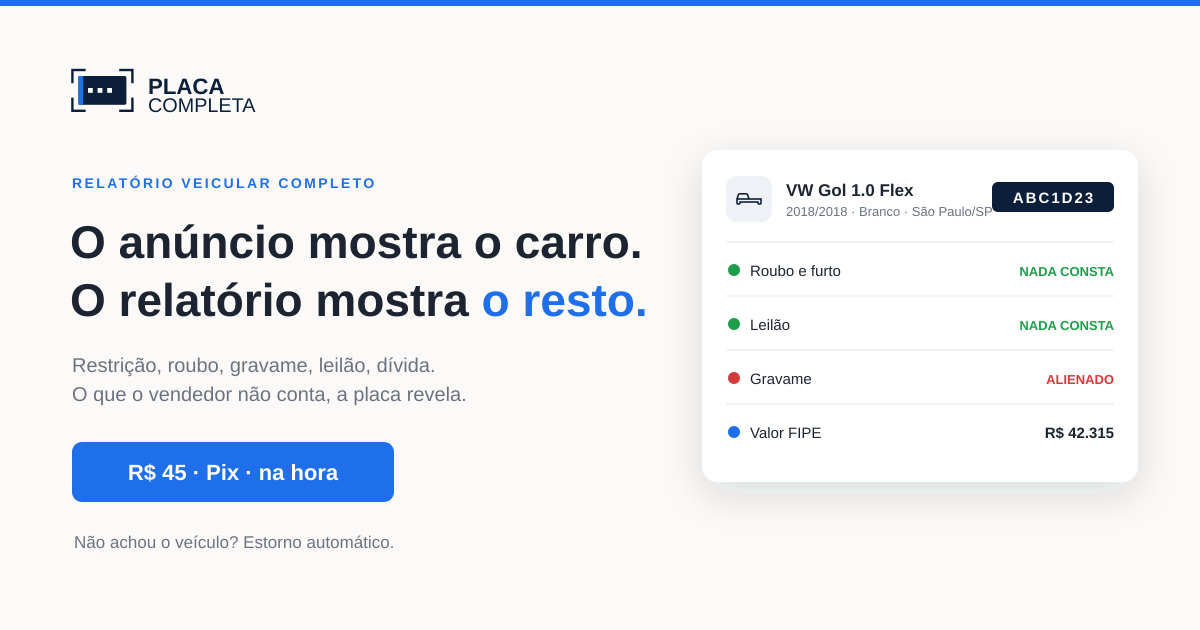
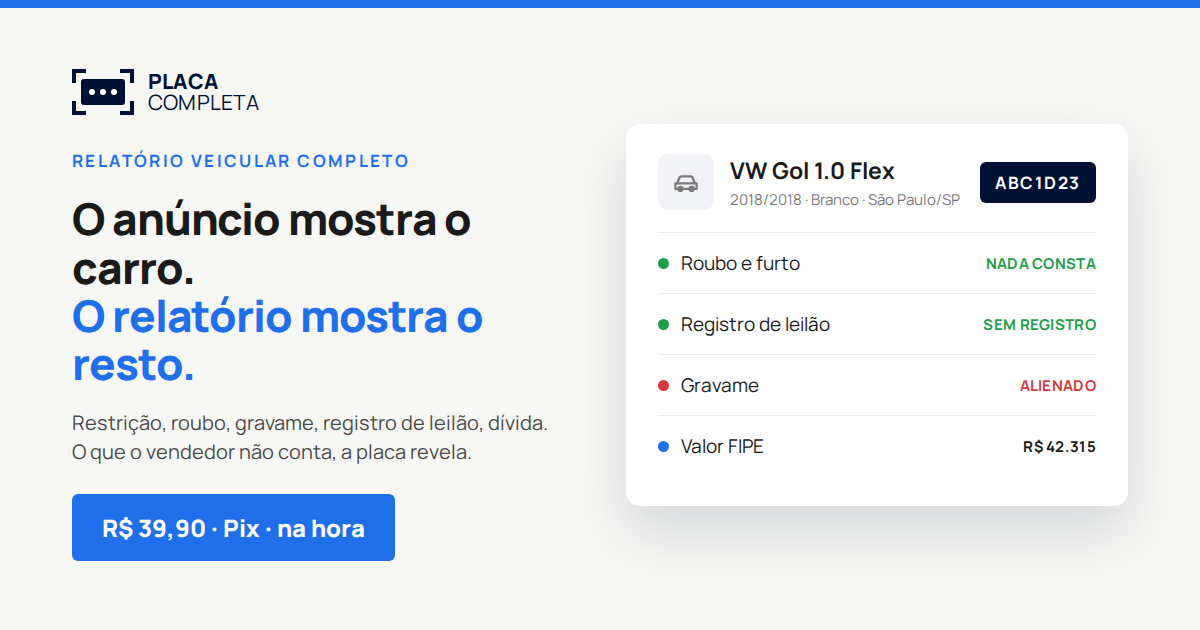
seo: tira o "gratis" do compartilhamento social
No card que circula em grupo de WhatsApp e rede social, quem precisa
aparecer e o relatorio pago; o "gratis" segue no title do Google, onde ele
ganha o clique. So Open Graph e Twitter mudaram: conteudo visivel, title e
meta description ficaram como estavam.

- nuxt.config: og:title, og:description, og:image:alt, twitter:title e
  twitter:description. Os textos antigos ainda prometiam "receba os dados
  no seu e-mail", coisa que a consulta gratis nao faz mais (o resultado sai
  na propria tela), entao a reescrita corrige as duas coisas de uma vez.
- useSiteVariant: as tres ogDescription (carro, moto, caminhao), agora
  cada uma falando do proprio veiculo em vez de repetir o mesmo texto.
- Paginas com OG proprio: consulta-gratis, consulta-placa,
  como-consultar-placa, tabela-fipe-por-placa, tabela-fipe,
  consultar-placa/[estado] e consultar-placa/capital/[slug].

As duas imagens tambem eram copy e estavam desatualizadas:
- og-image.png (default do site) tinha "Consulta Veicular Gratis" escrito.
- og-home.png trazia "R$ 45" (preco de duas mudancas atras), "Leilao" sem
  o "registro" e a linha "Nao achou o veiculo? Estorno automatico", que o
  Cesar ja mandou tirar do produto.
As duas foram refeitas na linguagem visual do site. Pra nao repetir o
trabalho manual na proxima mudanca de preco ou de vocabulario, os
templates viraram HTML versionado em scripts/og/ com um gerador
(node scripts/og/gerar.mjs) que exporta os PNGs em 1200x630.
[…]

diff --git a/scripts/og/og-home.html b/scripts/og/og-home.html
@@ -1,0 +1,88 @@
+<!doctype html>
+<html lang="pt-BR"><head><meta charset="utf-8">
+<link rel="stylesheet" href="https://fonts.googleapis.com/css2?family=Manrope:wght@400;500;600;700;800&display=swap">
+<style>
+  * { margin: 0; box-sizing: border-box; }
+  body {
+    width: 1200px; height: 630px; background: #f7f7f5;
+    font-family: 'Manrope', system-ui, sans-serif; color: #1a1a1a;
+    display: grid; grid-template-columns: 1fr 1fr; align-items: center;
+    gap: 52px; padding: 0 72px;
+  }
+  body::before { content: ''; position: fixed; top: 0; left: 0; right: 0; height: 8px; background: #1f6feb; }
+  .marca { display: flex; align-items: center; gap: 14px; margin-bottom: 34px; }
+  .marca__icone { width: 62px; height: 46px; position: relative; }
+  .marca__icone i { position: absolute; width: 14px; height: 14px; border: 4px solid #001233; }
+  .marca__icone i:nth-child(1) { top: 0; left: 0; border-right: 0; border-bottom: 0; }
+  .marca__icone i:nth-child(2) { top: 0; right: 0; border-left: 0; border-bottom: 0; }
+  .marca__icone i:nth-child(3) { bottom: 0; left: 0; border-right: 0; border-top: 0; }
+  .marca__icone i:nth-child(4) { bottom: 0; right: 0; border-left: 0; border-top: 0; }
+  .marca__placa {
+    position: absolute; inset: 10px 9px; background: #001233; border-radius: 3px;
+    display: flex; align-items: center; justify-content: center; gap: 5px;
+  }
+  .marca__placa span { width: 6px; height: 6px; border-radius: 50%; background: #fff; }
+  .marca__nome { font-size: 21px; font-weight: 800; line-height: 1; letter-spacing: 0.01em; color: #001233; }
+  .marca__nome small { display: block; font-size: 21px; font-weight: 400; }
+  .eyebrow { font-size: 17px; font-weight: 700; letter-spacing: 0.14em; color: #1f6feb; margin-bottom: 22px; }
+  h1 { font-size: 44px; font-weight: 800; letter-spacing: -0.025em; line-height: 1.1; }
+  h1 b { color: #1f6feb; }
+  .sub { font-size: 20px; line-height: 1.45; color: #4a4a4a; margin-top: 20px; }
+  .cta {
+    margin-top: 28px; display: inline-block; background: #1f6feb; color: #fff;
+    font-size: 24px; font-weight: 800; padding: 17px 30px; border-radius: 6px;
+  }
+  .card {
+    background: #fff; border-radius: 14px; padding: 30px 32px;
+    box-shadow: 0 26px 60px rgba(0, 18, 51, 0.14);
+  }
+  .card__topo { display: flex; align-items: center; gap: 16px; padding-bottom: 22px; }
+  .card__icone {
+    width: 56px; height: 56px; border-radius: 10px; background: #f0f2f6;
+    display: flex; align-items: center; justify-content: center; font-size: 26px;
+  }
+  .card__nome { font-size: 23px; font-weight: 700; }
+  .card__meta { font-size: 15px; color: #7a7a7a; margin-top: 3px; }
+  .card__placa {
+    margin-left: auto; background: #001233; color: #fff; font-size: 17px; font-weight: 700;
+    letter-spacing: 0.1em; padding: 9px 15px; border-radius: 6px;
+  }
+  .linha {
+    display: flex; align-items: center; gap: 12px;
+    border-top: 1px solid #ececec; padding: 17px 0; font-size: 19px;
+  }
+  .linha b { margin-left: auto; font-size: 15px; font-weight: 700; letter-spacing: 0.02em; }
+  .ponto { width: 11px; height: 11px; border-radius: 50%; }
+  .ok { background: #1e9e4a; } .ok + span + b { color: #1e9e4a; }
+  .alerta { background: #d33a3a; } .alerta + span + b { color: #d33a3a; }
+  .info { background: #1f6feb; } .info + span + b { color: #1a1a1a; }
+</style></head>
+<body>
+  <div>
+    <div class="marca">
+      <div class="marca__icone">
+        <i></i><i></i><i></i><i></i>
+        <div class="marca__placa"><span></span><span></span><span></span></div>
+      </div>
+      <div class="marca__nome">PLACA<small>COMPLETA</small></div>
+    </div>
+    <p class="eyebrow">RELATÓRIO VEICULAR COMPLETO</p>
+    <h1>O anúncio mostra o carro.<br><b>O relatório mostra o resto.</b></h1>
+    <p class="sub">Restrição, roubo, gravame, registro de leilão, dívida.<br>O que o vendedor não conta, a placa revela.</p>
+    <div class="cta">R$ 39,90 · Pix · na hora</div>
+  </div>
+  <div class="card">
+    <div class="card__topo">
+      <div class="card__icone"><svg viewBox="0 0 24 24" width="30" height="30" fill="none" stroke="#7a7a7a" stroke-width="1.8" stroke-linecap="round" stroke-linejoin="round"><path d="M5 13l1.6-4.2A2 2 0 0 1 8.5 7.5h7A2 2 0 0 1 17.4 8.8L19 13"/><path d="M3.5 13h17v4.5h-17z"/><circle cx="7.5" cy="17.5" r="1.6"/><circle cx="16.5" cy="17.5" r="1.6"/></svg></div>
+      <div>
+        <div class="card__nome">VW Gol 1.0 Flex</div>
+        <div class="card__meta">2018/2018 · Branco · São Paulo/SP</div>
+      </div>
+      <div class="card__placa">ABC1D23</div>
+    </div>
+    <div class="linha"><i class="ponto ok"></i><span>Roubo e furto</span><b>NADA CONSTA</b></div>
+    <div class="linha"><i class="ponto ok"></i><span>Registro de leilão</span><b>SEM REGISTRO</b></div>
+    <div class="linha"><i class="ponto alerta"></i><span>Gravame</span><b>ALIENADO</b></div>
+    <div class="linha"><i class="ponto info"></i><span>Valor FIPE</span><b>R$ 42.315</b></div>
+  </div>
+</body></html>

diff --git a/scripts/og/og-image.html b/scripts/og/og-image.html
@@ -1,0 +1,69 @@
+<!doctype html>
+<html lang="pt-BR"><head><meta charset="utf-8">
+<link rel="stylesheet" href="https://fonts.googleapis.com/css2?family=Manrope:wght@400;500;700;800&display=swap">
+<style>
+  * { margin: 0; box-sizing: border-box; }
+  body {
+    width: 1200px; height: 630px;
+    font-family: 'Manrope', system-ui, sans-serif;
+    background: radial-gradient(120% 120% at 50% 0%, #04225c 0%, #001233 55%, #000a1f 100%);
+    color: #fff;
+    display: flex; flex-direction: column; align-items: center; justify-content: center;
+    gap: 34px;
+  }
+  .marca { display: flex; align-items: center; gap: 20px; }
+  .marca__icone { width: 132px; height: 84px; position: relative; }
+  .marca__icone i {
+    position: absolute; width: 26px; height: 26px; border: 5px solid #fff;
+  }
+  .marca__icone i:nth-child(1) { top: 0; left: 0; border-right: 0; border-bottom: 0; }
+  .marca__icone i:nth-child(2) { top: 0; right: 0; border-left: 0; border-bottom: 0; }
+  .marca__icone i:nth-child(3) { bottom: 0; left: 0; border-right: 0; border-top: 0; }
+  .marca__icone i:nth-child(4) { bottom: 0; right: 0; border-left: 0; border-top: 0; }
+  .marca__placa {
+    position: absolute; inset: 18px 16px; background: #fff; border-radius: 4px;
+    display: flex; align-items: center; justify-content: center; gap: 7px;
+  }
+  .marca__placa::before {
+    content: ''; position: absolute; left: 0; top: 0; bottom: 0; width: 13px;
+    background: #00e07a; border-radius: 4px 0 0 4px;
+  }
+  .marca__placa span { width: 9px; height: 9px; border-radius: 50%; background: #001233; }
+  .marca__nome { font-size: 44px; font-weight: 800; line-height: 0.98; letter-spacing: -0.01em; }
+  .marca__nome small { display: block; font-size: 44px; font-weight: 400; }
+  h1 { font-size: 60px; font-weight: 800; letter-spacing: -0.02em; text-align: center; line-height: 1.08; }
+  h1 b { color: #3d8bff; font-weight: 800; }
+  .placa {
+    background: #fff; border-radius: 10px; overflow: hidden; width: 380px;
+  }
+  .placa__topo {
+    background: #1f6feb; color: #fff; font-size: 19px; font-weight: 700;
+    letter-spacing: 0.34em; text-align: center; padding: 7px 0 6px;
+  }
+  .placa__num {
+    color: #001233; font-size: 62px; font-weight: 800; letter-spacing: 0.14em;
+    text-align: center; padding: 14px 0 20px;
+  }
+  .itens { display: flex; gap: 14px; }
+  .itens span {
+    font-size: 21px; color: #cfe0ff; border: 1px solid rgba(255,255,255,0.28);
+    border-radius: 999px; padding: 9px 20px;
+  }
+</style></head>
+<body>
+  <div class="marca">
+    <div class="marca__icone">
+      <i></i><i></i><i></i><i></i>
+      <div class="marca__placa"><span></span><span></span><span></span></div>
+    </div>
+    <div class="marca__nome">PLACA<small>COMPLETA</small></div>
+  </div>
+  <h1>O anúncio mostra o carro.<br><b>O relatório mostra o resto.</b></h1>
+  <div class="placa">
+    <div class="placa__topo">BRASIL</div>
+    <div class="placa__num">ABC1D23</div>
+  </div>
+  <div class="itens">
+    <span>Restrição</span><span>Roubo e furto</span><span>Gravame</span><span>Registro de leilão</span><span>FIPE</span>
+  </div>
+</body></html>

diff --git a/composables/useSiteVariant.ts b/composables/useSiteVariant.ts
@@ -46,6 +46,12 @@ export interface SiteVariantContent {
   heroImageAlt: string
   metaTitle: string
   ogTitle: string
+  /**
+   * Copy do compartilhamento social. Sem a palavra "gratis": no card que
+   * circula em grupo de WhatsApp e rede social, o produto que a gente quer
+   * anunciar e o relatorio pago. O "gratis" segue vivo no title do Google,
+   * onde ele ganha o clique.
+   */
   ogDescription: string
 }
 
@@ -64,7 +70,7 @@ const CONTENT: Record<SiteVariant, SiteVariantContent> = {
     // texto fazia o titulo sair duplicado em producao.
     metaTitle: 'Consulta de Placa Grátis: Roubo, Dívida e Leilão',
     ogTitle: 'PlacaCompleta · Relatório completo do veículo pela placa',
-    ogDescription: 'Consulta grátis na hora e relatório completo com indicador de roubo e furto, registro de leilão, gravame, restrições, recall, valor FIPE e seguro. Pagamento único no Pix, sem assinatura.',
+    ogDescription: 'O que o anúncio não conta sobre o carro: restrição, roubo e furto, registro de leilão, gravame, recall, valor FIPE e seguro estimado. Pagamento único no Pix, sem assinatura.',
   },
   moto: {
     variant: 'moto',
@@ -78,7 +84,7 @@ const CONTENT: Record<SiteVariant, SiteVariantContent> = {
     heroImageAlt: 'Honda CB600F Hornet vista de lado',
     metaTitle: 'Consulta Placa de Moto Grátis: Roubo, Dívida e Leilão',
     ogTitle: 'Olho na Moto · Relatório completo da moto pela placa',
-    ogDescription: 'Consulta grátis na hora e relatório completo com indicador de roubo e furto, registro de leilão, gravame, restrições, recall, valor FIPE e seguro. Pagamento único no Pix, sem assinatura.',
+    ogDescription: 'O que o anúncio não conta sobre a moto: restrição, roubo e furto, registro de leilão, gravame, recall, valor FIPE e seguro estimado. Pagamento único no Pix, sem assinatura.',
   },
   caminhao: {
     variant: 'caminhao',
@@ -92,7 +98,7 @@ const CONTENT: Record<SiteVariant, SiteVariantContent> = {
     heroImageAlt: 'Caminhão Volvo FH visto de lado',
     metaTitle: 'Consulta Placa de Caminhão Grátis: Roubo, Dívida e Leilão',
     ogTitle: 'Olho no Caminhão · Relatório completo do caminhão pela placa',
-    ogDescription: 'Consulta grátis na hora e relatório completo com indicador de roubo e furto, registro de leilão, gravame, restrições, recall, valor FIPE e seguro. Pagamento único no Pix, sem assinatura.',
+    ogDescription: 'O que o anúncio não conta sobre o caminhão: restrição, roubo e furto, registro de leilão, gravame, recall, valor FIPE e seguro estimado. Pagamento único no Pix, sem assinatura.',
   },
 }
 

diff --git a/nuxt.config.ts b/nuxt.config.ts
@@ -415,12 +415,12 @@ export default defineNuxtConfig({
         {
           property: "og:title",
           content:
-            "Consulta Veicular Grátis por Placa - Receba Dados Completos no E-mail",
+            "PlacaCompleta: o relatório completo do veículo pela placa",
         },
         {
           property: "og:description",
           content:
-            "Consulte qualquer placa veicular e receba marca, modelo, ano, cor, FIPE, município e situação no seu e-mail. Resultado instantâneo, 100% grátis e sem cadastro.",
+            "Digite a placa e veja o que o anúncio não conta: restrição, roubo e furto, registro de leilão, gravame, recall, valor FIPE e a ficha completa do veículo.",
         },
         { property: "og:type", content: "website" },
         {
@@ -431,19 +431,19 @@ export default defineNuxtConfig({
         { property: "og:image:height", content: "630" },
         {
           property: "og:image:alt",
-          content: "PlacaCompleta - Consulta Veicular Grátis por Placa",
+          content: "PlacaCompleta: relatório completo do veículo pela placa",
         },
         { property: "og:locale", content: "pt_BR" },
         { name: "twitter:card", content: "summary_large_image" },
         {
           name: "twitter:title",
           content:
-            "Consulta Veicular Grátis por Placa - Receba Dados Completos no E-mail",
+            "PlacaCompleta: o relatório completo do veículo pela placa",
         },
         {
           name: "twitter:description",
           content:
-            "Consulte qualquer placa veicular e receba marca, modelo, ano, cor, FIPE, município e situação no seu e-mail. Resultado instantâneo, 100% grátis e sem cadastro.",
+            "Digite a placa e veja o que o anúncio não conta: restrição, roubo e furto, registro de leilão, gravame, recall, valor FIPE e a ficha completa do veículo.",
         },
         {
           name: "twitter:image",

diff --git a/pages/tabela-fipe-por-placa.vue b/pages/tabela-fipe-por-placa.vue
@@ -98,8 +98,8 @@ useHead({
   meta: [
     { name: 'description', content: `Consulte o valor da Tabela FIPE de qualquer veículo pela placa em ${currentMonth} de ${currentYear}. Resultado com marca, modelo, ano, código FIPE e preço atualizado do mês. Grátis.` },
     { name: 'keywords', content: 'tabela FIPE por placa, valor FIPE pela placa, consultar FIPE grátis, preço veículo por placa, fipe pela placa, tabela fipe pela placa, codigo fipe placa' },
-    { property: 'og:title', content: 'Tabela FIPE pela Placa: Valor do Veículo Grátis' },
-    { property: 'og:description', content: 'Descubra o valor FIPE de qualquer veículo pela placa. Resultado com marca, modelo, ano e preço FIPE. Grátis.' },
+    { property: 'og:title', content: 'Tabela FIPE pela Placa: o valor do veículo' },
+    { property: 'og:description', content: 'Descubra o valor FIPE de qualquer veículo pela placa, com marca, modelo, ano e preço na tela.' },
   ],
   link: [
     { rel: 'canonical', href: 'https://placacompleta.com.br/tabela-fipe-por-placa' },

diff --git a/pages/consultar-placa/[estado].vue b/pages/consultar-placa/[estado].vue
@@ -36,8 +36,8 @@ useHead({
   meta: [
     { name: 'description', content: `Consulte qualquer placa registrada em ${data.name} (${data.uf}). Veja marca, modelo, ano, cor, situação e valor FIPE do veículo. Resultado grátis em segundos.` },
     { name: 'keywords', content: `consultar placa ${data.uf}, consulta placa ${data.name.toLowerCase()}, consultar veículo ${data.name.toLowerCase()}, placa ${data.uf} grátis` },
-    { property: 'og:title', content: `Consultar Placa ${data.uf} Grátis: Dados do Veículo` },
-    { property: 'og:description', content: `Consulte qualquer placa registrada em ${data.name} e veja marca, modelo, ano, situação e valor FIPE. Grátis e rápido.` },
+    { property: 'og:title', content: `Consultar Placa ${data.uf}: Dados do Veículo` },
+    { property: 'og:description', content: `Consulte qualquer placa registrada em ${data.name} e veja marca, modelo, ano, situação e valor FIPE na hora.` },
   ],
   link: [
     { rel: 'canonical', href: `https://placacompleta.com.br/consultar-placa/${slug}` },

diff --git a/pages/consultar-placa/capital/[slug].vue b/pages/consultar-placa/capital/[slug].vue
@@ -25,8 +25,8 @@ useHead({
   meta: [
     { name: 'description', content: `Consulte qualquer placa de veículo em ${capital.name} - ${state.uf}. Veja marca, modelo, ano, cor, situação e valor FIPE. Resultado grátis em segundos.` },
     { name: 'keywords', content: `consultar placa ${capital.name.toLowerCase()}, consulta placa ${capital.name.toLowerCase()}, consultar veículo ${capital.name.toLowerCase()}, placa ${state.uf} grátis` },
-    { property: 'og:title', content: `Consultar Placa em ${capital.name}: Dados do Veículo Grátis` },
-    { property: 'og:description', content: `Consulte qualquer placa de veículo em ${capital.name} (${state.uf}) e veja marca, modelo, ano, situação e valor FIPE. Grátis e rápido.` },
+    { property: 'og:title', content: `Consultar Placa em ${capital.name}: Dados do Veículo` },
+    { property: 'og:description', content: `Consulte qualquer placa de veículo em ${capital.name} (${state.uf}) e veja marca, modelo, ano, situação e valor FIPE na hora.` },
   ],
   script: [
     {

diff --git a/pages/consulta-gratis.vue b/pages/consulta-gratis.vue
@@ -33,8 +33,8 @@ useHead({
   meta: [
     { name: 'description', content: 'Consulte qualquer placa de veículo grátis e receba os dados por e-mail: marca, modelo, ano, FIPE, situação e mais. Sem cadastro, resultado em segundos.' },
     { name: 'keywords', content: 'consultar placa grátis, consulta placa grátis, consulta veicular grátis, pesquisa placa grátis, consultar placa de carro grátis' },
-    { property: 'og:title', content: 'Consultar Placa Grátis: Dados do Veículo' },
-    { property: 'og:description', content: 'Consulta veicular grátis e sem cadastro. Receba marca, modelo, FIPE, situação e mais no seu e-mail em segundos.' },
+    { property: 'og:title', content: 'Consultar Placa: os dados do veículo na hora' },
+    { property: 'og:description', content: 'Digite a placa e veja marca, modelo, ano, cor, situação e valor FIPE na própria tela, sem cadastro.' },
   ],
   script: [
     {

diff --git a/pages/tabela-fipe/index.vue b/pages/tabela-fipe/index.vue
@@ -44,7 +44,7 @@ useHead({
     { name: 'description', content: `Tabela FIPE atualizada em ${currentMonth} ${currentYear}. Consulte valores de carros, motos e caminhões por marca ou pela placa. Todas as marcas e modelos. Grátis.` },
     { name: 'keywords', content: 'tabela fipe, valor fipe, preço fipe, tabela fipe carros, tabela fipe motos, consulta fipe grátis, consulta veicular placa, consulta veicular grátis, valor veículo por placa' },
     { property: 'og:title', content: `Tabela FIPE ${currentMonth} ${currentYear}: Valores Atualizados` },
-    { property: 'og:description', content: `Tabela FIPE atualizada em ${currentMonth} ${currentYear}. Valores de carros e motos por marca ou pela placa. Grátis.` },
+    { property: 'og:description', content: `Tabela FIPE atualizada em ${currentMonth} ${currentYear}. Valores de carros e motos por marca ou pela placa.` },
   ],
   script: [
     {

diff --git a/pages/consulta-placa.vue b/pages/consulta-placa.vue
@@ -10,8 +10,8 @@ useHead({
   meta: [
     { name: 'description', content: 'Faça a consulta de placa veicular grátis e receba por e-mail marca, modelo, ano, cor, tabela FIPE, município e situação do veículo. Sem cadastro.' },
     { name: 'keywords', content: 'consulta de placa, consulta placa veicular, consultar placa online, consulta veicular grátis, pesquisar placa de carro' },
-    { property: 'og:title', content: 'Consulta de Placa Veicular Grátis Online' },
-    { property: 'og:description', content: 'Consulte qualquer placa veicular e receba os dados completos no seu e-mail. Grátis e instantâneo.' },
+    { property: 'og:title', content: 'Consulta de Placa Veicular Online' },
+    { property: 'og:description', content: 'Consulte qualquer placa e veja os dados do veículo na hora, na própria tela.' },
   ],
 })
 </script>

diff --git a/pages/como-consultar-placa.vue b/pages/como-consultar-placa.vue
@@ -10,7 +10,7 @@ useHead({
   meta: [
     { name: 'description', content: 'Aprenda como consultar a placa de qualquer veículo gratuitamente. Passo a passo simples para verificar dados como marca, modelo, FIPE e situação.' },
     { name: 'keywords', content: 'como consultar placa, como pesquisar placa de carro, como verificar placa, consulta gratuita de placa, passo a passo consulta placa' },
-    { property: 'og:title', content: 'Como Consultar Placa de Veículo Grátis' },
+    { property: 'og:title', content: 'Como Consultar a Placa de um Veículo' },
     { property: 'og:description', content: 'Passo a passo para consultar qualquer placa de veículo gratuitamente e receber os dados no seu e-mail.' },
   ],
   script: [
